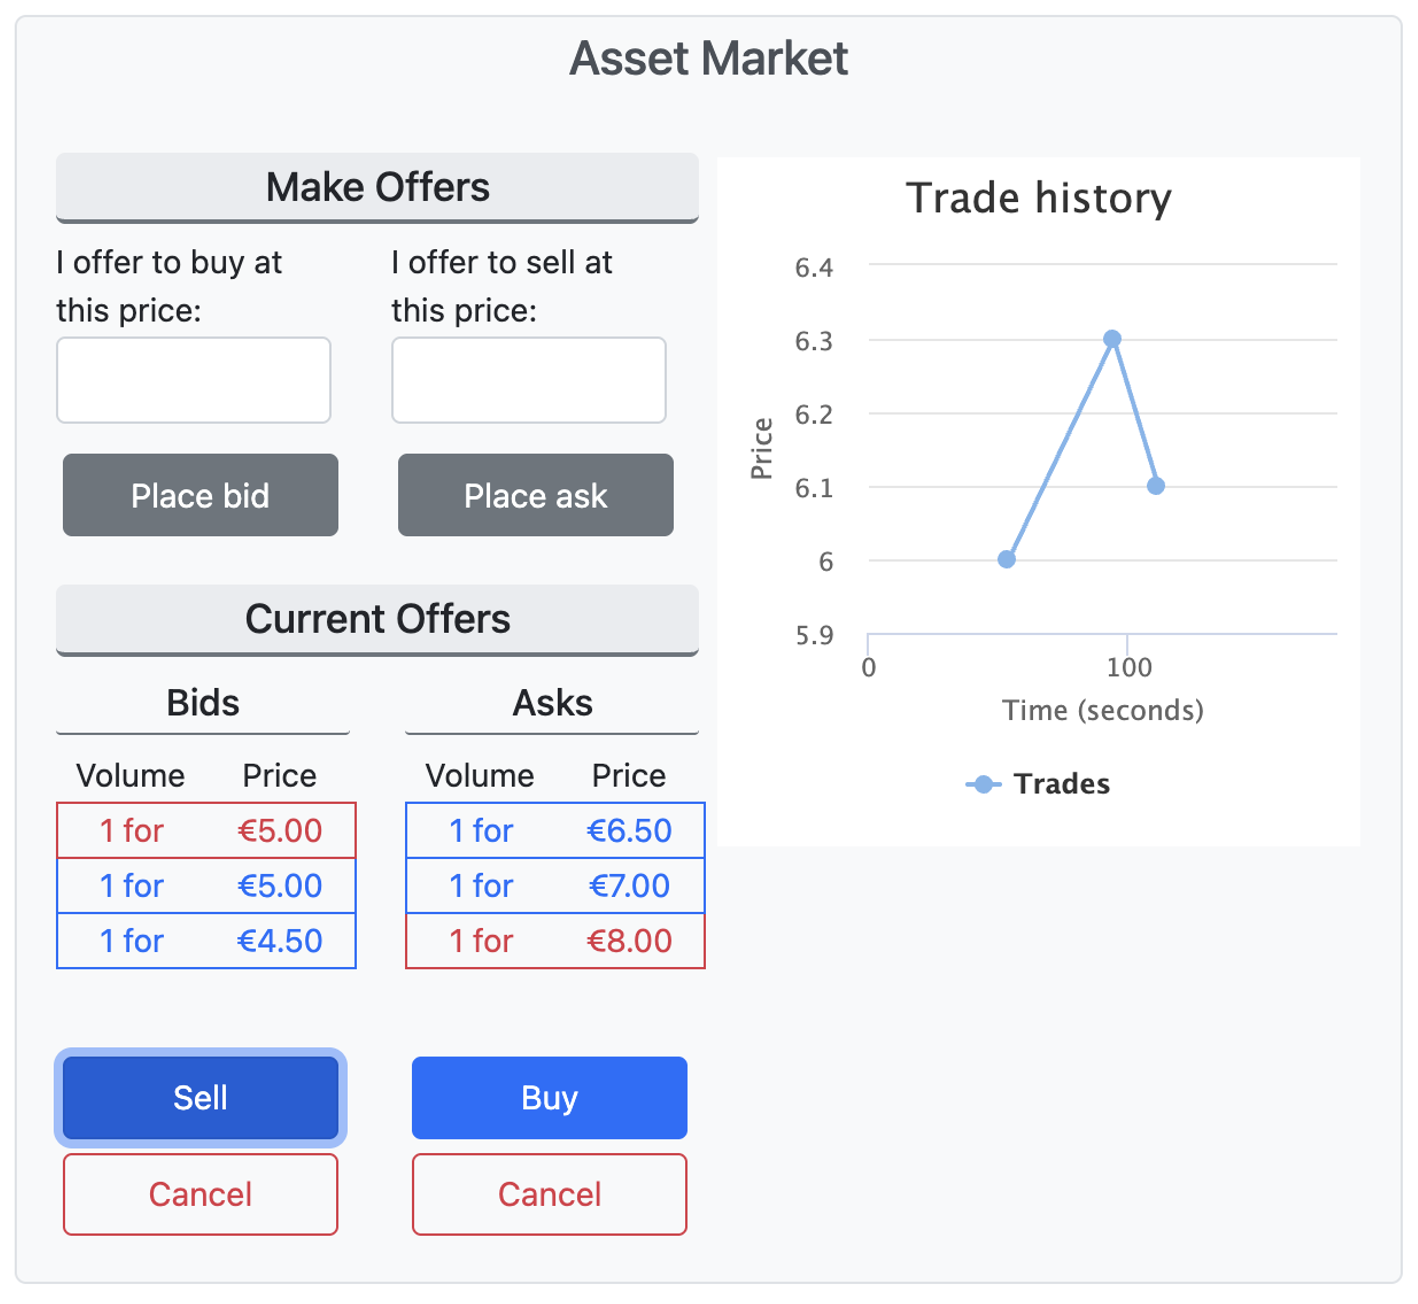
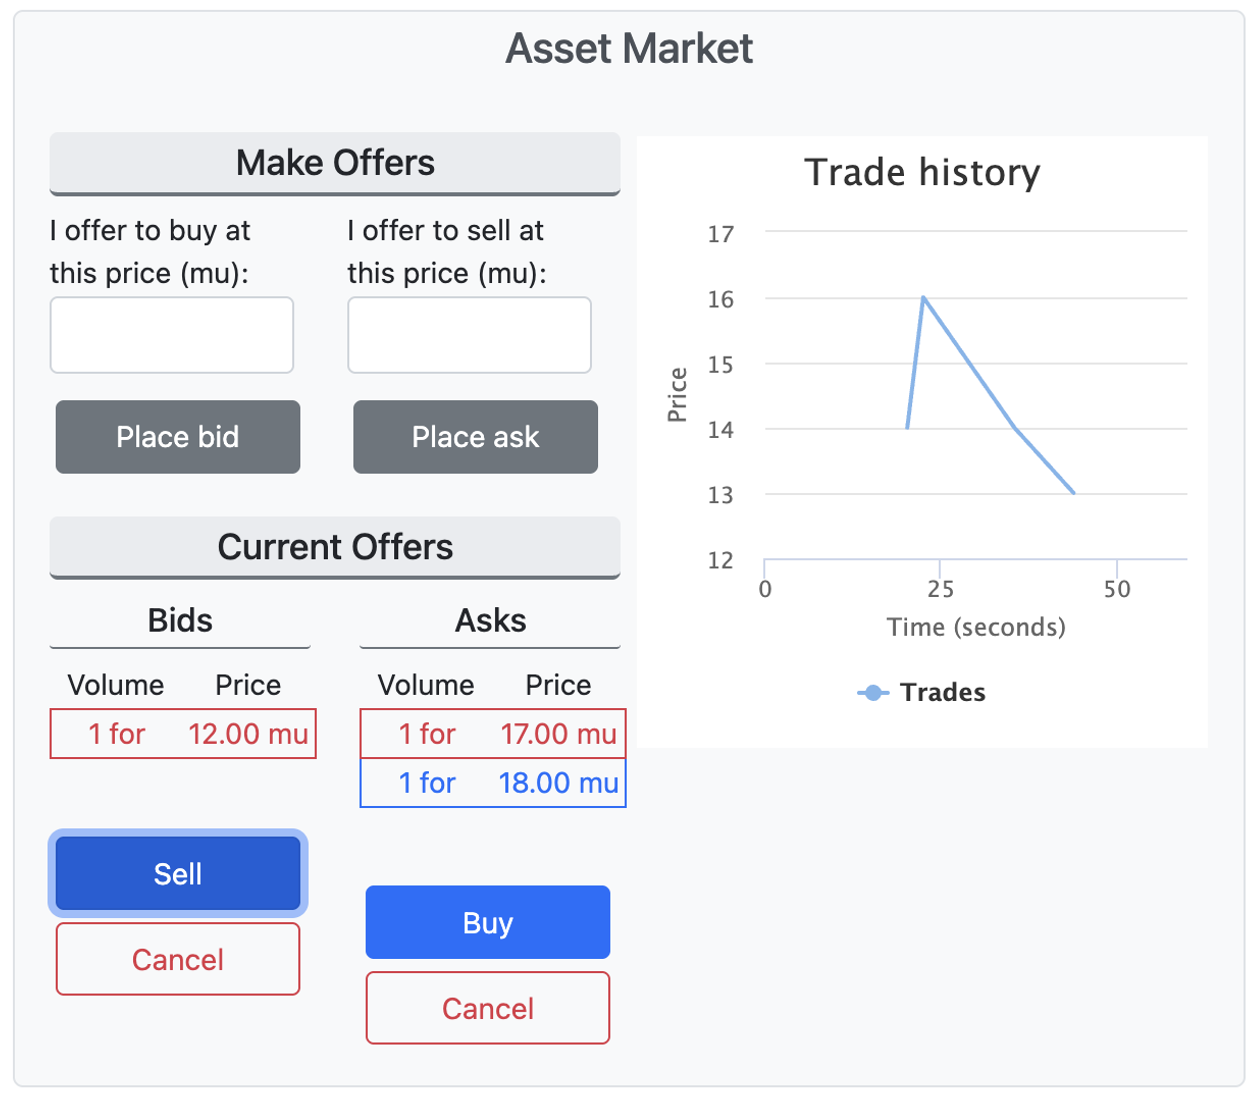
pre market + market made conditional on treatment instructions: conditional market screenshots added

diff --git a/singleAsset/Instructions.html b/singleAsset/Instructions.html
@@ -30,7 +30,11 @@ The purpose of the study is to investigate trading behavior in an <strong>experi
   <li>Your goal in each round is to <strong>maximize your Total Score</strong> by trading {% if framing == 'environmental' or framing == 'destruction' %}carbon credits{% else %}assets{% endif %} with other participants and buying goods.</li>
 </ul>
 
-<img src="{% static 'images/marketplace_screenshot.png' %}" alt="Screenshot of the Market Place interface" style="max-width: 100%; height: auto; border: 1px solid #ddd; border-radius: 5px; margin: 20px auto; display: block;">
+{% if framing == 'baseline' %}
+<img src="{% static 'images/marketplace_baseline_screenshot.png' %}" alt="Screenshot of the Market Place interface" style="max-width: 100%; height: auto; border: 1px solid #ddd; border-radius: 5px; margin: 20px auto; display: block;">
+{% else %}
+<img src="{% static 'images/marketplace_env_screenshot.png' %}" alt="Screenshot of the Market Place interface" style="max-width: 100%; height: auto; border: 1px solid #ddd; border-radius: 5px; margin: 20px auto; display: block;">
+{% endif %}
 
 <h3>Endowment</h3>
 <ul>
@@ -44,7 +48,7 @@ The purpose of the study is to investigate trading behavior in an <strong>experi
 <h3>The Goods Market</h3>
 <ul>
   <li>You can buy two types of goods: <strong>Good A</strong> and <strong>Good B</strong>.</li>
-  <li>Goods have fixed costs in money and {% if framing == 'environmental' or framing == 'destruction' %}carbon credits{% else %}assets{% endif %} and give you <strong>satisfaction points</strong>.</li>
+  <li>Goods have fixed prices in money and {% if framing == 'environmental' or framing == 'destruction' %}carbon credits{% else %}assets{% endif %} and give you <strong>satisfaction points</strong>.</li>
   <li>When you buy a good, the required money and {% if framing == 'environmental' or framing == 'destruction' %}carbon credits{% else %}assets{% endif %} are deducted, and the satisfaction points are added to your <strong>Total Score</strong>.</li>
   <li>You may buy as many goods as you want, as long as you have enough money and {% if framing == 'environmental' or framing == 'destruction' %}carbon credits{% else %}assets{% endif %}.</li>
   <li>Goods can only be <strong>bought</strong>, not sold.</li>
@@ -65,7 +69,11 @@ The purpose of the study is to investigate trading behavior in an <strong>experi
   <li>The <strong>trade history graph</strong> shows the timing and prices of {% if framing == 'environmental' or framing == 'destruction' %}carbon credit{% else %}asset{% endif %} trades made between participants in your group.</li>
 </ul>
 
+{% if framing == 'baseline' %}
 <img src="{% static 'images/assetmarket_screenshot.png' %}" alt="Screenshot of the Asset Market interface" style="width: 60%; height: auto; border: 1px solid #ddd; border-radius: 5px; margin: 20px auto; display: block;">
+{% else %}
+<img src="{% static 'images/carbonmarket_screenshot.png' %}" alt="Screenshot of the Carbon Market interface" style="width: 60%; height: auto; border: 1px solid #ddd; border-radius: 5px; margin: 20px auto; display: block;">
+{% endif %}
 
 <h3>Alerts</h3>
 <p>
@@ -96,7 +104,7 @@ This gives you an initial <strong>Total Score of 100</strong>.
 
 <p>You can increase your Score by buying goods or selling {% if framing == 'environmental' or framing == 'destruction' %}carbon credits{% else %}assets{% endif %}.</p>
 <ul>
-<li>If you buy Good A (cost: 5 mu and 1 {% if framing == 'environmental' or framing == 'destruction' %}carbon credit{% else %}asset{% endif %}, value: 12 satisfaction points),<br>
+<li>If you buy Good A (price: 5 mu and 1 {% if framing == 'environmental' or framing == 'destruction' %}carbon credit{% else %}asset{% endif %}, value: 12 satisfaction points),<br>
 your new Score is: 100 – 5 mu + 12 points = <strong>107</strong>.</li>
 <li>If you to sell one {% if framing == 'environmental' or framing == 'destruction' %}carbon credit{% else %}asset{% endif %} for 10 mu,<br>
 your new Score is: 100 + 10 mu = <strong>110</strong>.</li>

diff --git a/singleAsset/Market.html b/singleAsset/Market.html
@@ -185,7 +185,11 @@ hr { margin: 12px 0 !important; }
     </tr>
         {{ if not player.isObserver }}
     <tr>
-        <th>Asset holding</th>
+        <th>Money holding</th>
+        <td id="cashHolding">{{ player.cashHolding }}</td>
+    </tr>
+    <tr>
+        <th>{% if player.framing == 'environmental' or player.framing == 'destruction' %}Carbon credit{% else %}Asset{% endif %} holding</th>
         <td id="assetsHolding">{{ player.assetsHolding }}</td>
     </tr>
     <tr> {{ if player.allowShort }}
@@ -195,10 +199,7 @@ hr { margin: 12px 0 !important; }
         </td>
         {{ else }} {{ endif }}
     </tr>
-    <tr>
-        <th>Money holding</th>
-        <td id="cashHolding">{{ player.cashHolding }}</td>
-    </tr>
+
     <tr> {{ if player.allowLong }}
         <th>Your credit limit</th>
         <td id="capLong">{{ player.capLong }}</td>
@@ -242,11 +243,11 @@ hr { margin: 12px 0 !important; }
                 <div>
                     <table style="width: 100%; font-size: 0.875rem;">
                         <tr>
-                            <th style="text-align: left; font-weight: normal;">Monetary cost</th>
+                            <th style="text-align: left; font-weight: normal;">Money price</th>
                             <td style="text-align: right; font-weight: normal;">5</td>
                         </tr>
                         <tr>
-                            <th style="text-align: left; font-weight: normal;">Asset cost</th>
+                            <th style="text-align: left; font-weight: normal;">{% if player.framing == 'environmental' or player.framing == 'destruction' %}Carbon price{% else %}Asset price{% endif %}</th>
                             <td style="text-align: right; font-weight: normal;">1</td>
                         </tr>
                         <tr>
@@ -275,11 +276,11 @@ hr { margin: 12px 0 !important; }
                 <div>
                     <table style="width: 100%; font-size: 0.875rem;">
                         <tr>
-                            <th style="text-align: left; font-weight: normal;">Monetary cost</th>
+                            <th style="text-align: left; font-weight: normal;">Money price</th>
                             <td style="text-align: right; font-weight: normal;">10</td>
                         </tr>
                         <tr>
-                            <th style="text-align: left; font-weight: normal;">Asset cost</th>
+                            <th style="text-align: left; font-weight: normal;">{% if player.framing == 'environmental' or player.framing == 'destruction' %}Carbon price{% else %}Asset price{% endif %}</th>
                             <td style="text-align: right; font-weight: normal;">3</td>
                         </tr>
                         <tr>
@@ -307,7 +308,7 @@ hr { margin: 12px 0 !important; }
         <!-- Asset Market + Trade History Container (center + right, 2/3 width) -->
         <td colspan="2" style="width: 66.66%; vertical-align: top;">
             <div style="background-color: #f8f9fa; border: 1px solid #dee2e6; border-radius: 5px; padding: 6px; margin-bottom: 0;">
-                <h3 style="margin-top: -5px; margin-bottom: 8px; color: #495057; text-align: center;">Asset Market</h3>
+                <h3 style="margin-top: -5px; margin-bottom: 8px; color: #495057; text-align: center;">{% if player.framing == 'environmental' or player.framing == 'destruction' %}Carbon Market{% else %}Asset Market{% endif %}</h3>
                 <table style="width: 100%; border-collapse: separate; border-spacing: 6px;">
                     <tr>
                         <td style="width: 50%; vertical-align: top;">

diff --git a/singleAsset/PreMarket.html b/singleAsset/PreMarket.html
@@ -38,8 +38,12 @@ Pre Market Information
         </td>
     </tr>
         {{ if not player.isObserver }}
+     <tr>
+        <th style="width: 80%;">Money</th>
+        <td id="cashHolding" style="text-align: right; width: 20%;">{{ player.cashHolding }}</td>
+    </tr>
     <tr>
-        <th style="width: 80%;">Assets</th>
+        <th style="width: 80%;">{% if player.framing == 'environmental' or player.framing == 'destruction' %}Carbon credits{% else %}Assets{% endif %}</th>
         <td id="assetsHolding" style="text-align: right; width: 20%;">{{ player.assetsHolding }}</td>
     </tr>
     <tr> {{ if player.allowShort }}
@@ -49,10 +53,7 @@ Pre Market Information
         </td>
         {{ else }} {{ endif }}
     </tr>
-    <tr>
-        <th style="width: 80%;">Money</th>
-        <td id="cashHolding" style="text-align: right; width: 20%;">{{ player.cashHolding }}</td>
-    </tr>
+
     <tr> {{ if player.allowLong }}
         <th>Your credit limit</th>
         <td id="capLong">
@@ -74,11 +75,11 @@ Pre Market Information
             <p style="margin-bottom: 4px; text-align: left; font-size: 1rem; font-weight: bold;">Good A</p>
             <table id="goodATable" style="width: 100%;">
             <tr>
-                <th style="text-align: left; font-weight: normal; width: 80%;">Monetary cost</th>
+                <th style="text-align: left; font-weight: normal; width: 80%;">Money price</th>
                 <td style="text-align: right; width: 20%;"><strong>5</strong></td>
             </tr>
             <tr>
-                <th style="text-align: left; font-weight: normal; width: 80%;">Asset cost</th>
+                <th style="text-align: left; font-weight: normal; width: 80%;">{% if player.framing == 'environmental' or player.framing == 'destruction' %}Carbon price{% else %}Asset price{% endif %}</th>
                 <td style="text-align: right; width: 20%;"><strong>1</strong></td>
             </tr>
             <tr>
@@ -99,11 +100,11 @@ Pre Market Information
             <p style="margin-bottom: 4px; text-align: left; font-size: 1rem; font-weight: bold;">Good B</p>
             <table id="goodBTable" style="width: 100%;">
             <tr>
-                <th style="text-align: left; font-weight: normal; width: 80%;">Monetary cost</th>
+                <th style="text-align: left; font-weight: normal; width: 80%;">Money price</th>
                 <td style="text-align: right; width: 20%;"><strong>10</strong></td>
             </tr>
             <tr>
-                <th style="text-align: left; font-weight: normal; width: 80%;">Asset cost</th>
+                <th style="text-align: left; font-weight: normal; width: 80%;">{% if player.framing == 'environmental' or player.framing == 'destruction' %}Carbon price{% else %}Asset price{% endif %}</th>
                 <td style="text-align: right; width: 20%;"><strong>3</strong></td>
             </tr>
             <tr>

diff --git a/singleAsset/__init__.py b/singleAsset/__init__.py
@@ -37,12 +37,8 @@ class C(BaseConstants):
         'destruction_heterogeneous'
     ]
     ACTIVE_TREATMENTS = [
-        'baseline_homogeneous', 
-        'baseline_heterogeneous', 
-        'environmental_homogeneous', 
-        'environmental_heterogeneous', 
-        'destruction_homogeneous', 
-        'destruction_heterogeneous'
+        'baseline_homogeneous',
+        'destruction_homogeneous',      
     ]  # Can be modified to test specific treatments
 
 
@@ -1522,12 +1518,6 @@ class Market(Page):
     def is_displayed(player: Player):
         return player.isParticipating
 
-    @staticmethod
-    def vars_for_template(player: Player):
-        print(f"DEBUG: Market page - Player {player.id} framing: '{player.framing}'")
-        return dict(
-            framing=player.framing,
-        )
 
     @staticmethod
     def js_vars(player: Player):
